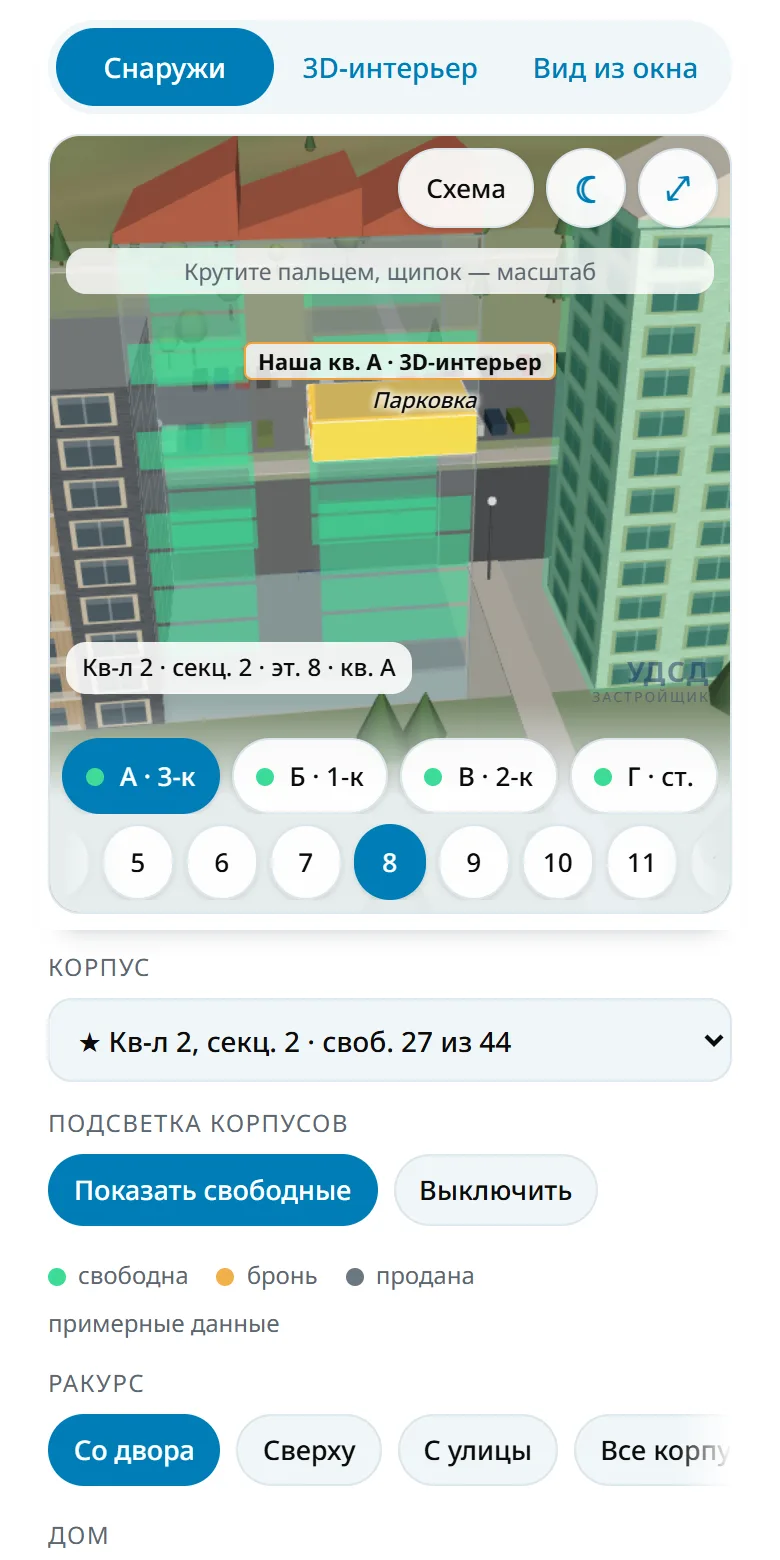
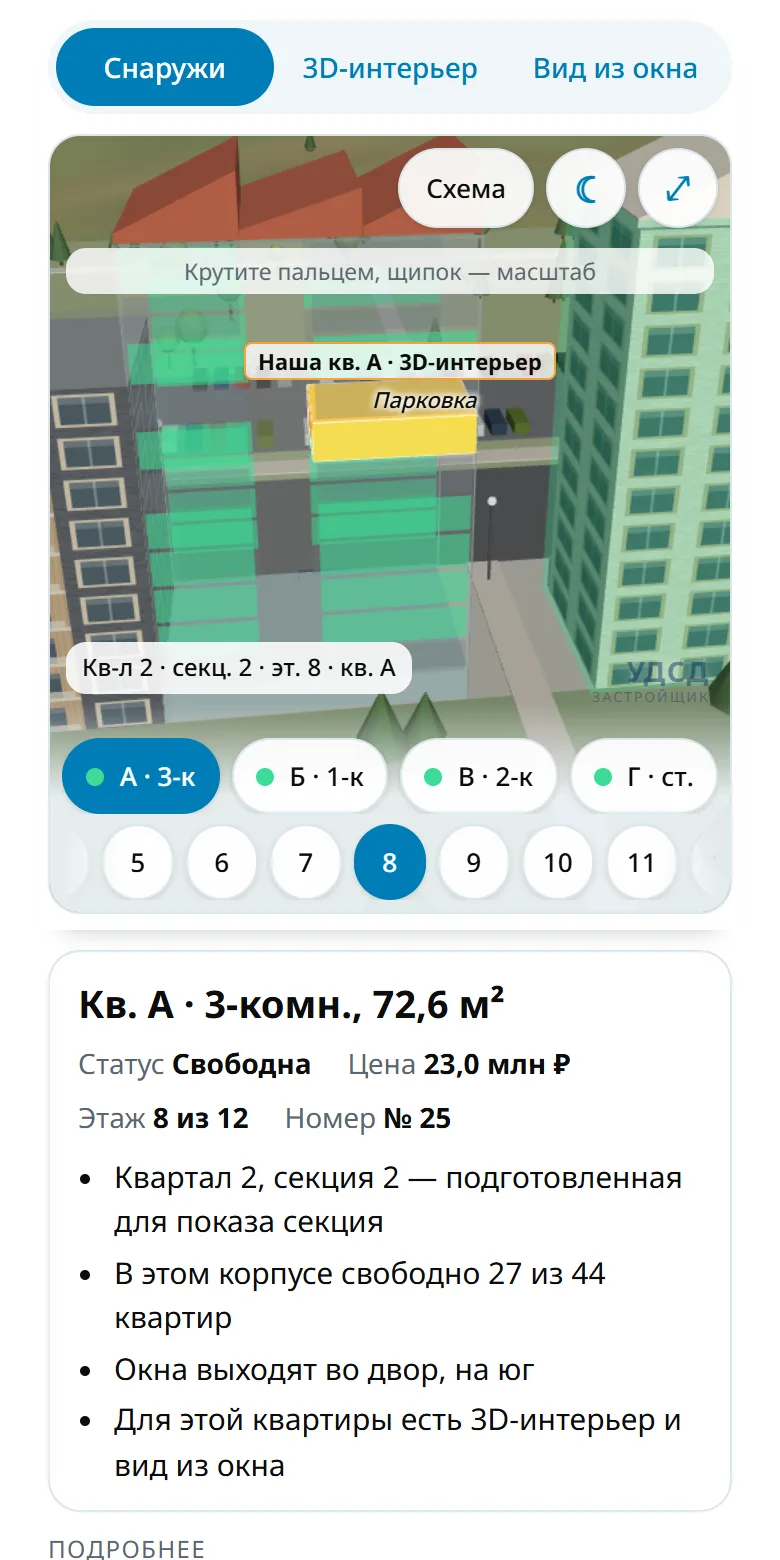
Телефон: карточка квартиры сразу под 3D, редкие настройки свёрнуты, короче шапка
Карточка со статусом и ценой — под сценой; «Подробнее» первым рядом; подсветка, дом и квартира внутри — в «Ещё настройки» (на телефоне свёрнуто); шапка на телефоне в одну строку; кнопки без задержки и двойного увеличения в Safari.

Changed region(s): [[0.0615, 0.6154, 0.9538, 1.0]]

diff --git a/demo/index.html b/demo/index.html
@@ -165,9 +165,13 @@ svg text{font-family:var(--f-body)}
 @media (max-width:640px){
   .lg{display:none}.sm{display:inline}.icobtn.sm{display:inline-flex}
   #rTime{display:none}
-  .demo-bar{font-size:11.5px;padding:6px 10px;margin-bottom:4px}
-  .eyebrow{font-size:11px}
-  h1{font-size:21px}
+  .demo-bar{font-size:11px;padding:5px 10px;margin-bottom:0;border-radius:10px}
+  /* the header shrinks to one line: the badge on the 3D and the card below carry the details */
+  .eyebrow{display:none}
+  h1{font-size:17px;white-space:nowrap;overflow:hidden;text-overflow:ellipsis}
+  .card{padding:12px 14px;gap:8px}
+  #pinMark{margin-top:-10px}   /* the marker must not add a flex gap of its own */
+  .card h2{font-size:19px}
   .wrap{gap:10px}
   .badge{top:auto;bottom:calc(var(--dockh) + 4px);left:8px;max-width:calc(100% - 96px);font-size:12px;padding:4px 8px;white-space:nowrap;overflow:hidden;text-overflow:ellipsis}
   .hint{bottom:auto;top:56px;left:8px;right:8px;max-width:none;text-align:center;font-size:11.5px}
@@ -200,6 +204,16 @@ svg text{font-family:var(--f-body)}
   .tbar .planbtn{padding:6px 10px}
   .icobtn{width:38px;height:38px}
 }
+/* folded block of rare settings */
+.more{display:flex;flex-direction:column;gap:12px}
+.more summary{list-style:none;cursor:pointer;display:inline-flex;align-items:center;gap:8px;font:500 14px var(--f-body);color:var(--acc);min-height:40px}
+.more summary::-webkit-details-marker{display:none}
+.more summary::after{content:"";width:8px;height:8px;border-right:2px solid currentColor;border-bottom:2px solid currentColor;transform:rotate(45deg) translateY(-3px);transition:transform .15s}
+.more[open] summary::after{transform:rotate(-135deg) translate(-2px,-1px)}
+.more[open]{gap:12px}
+.more > .row{margin-top:0}
+/* taps: no double-tap zoom or delay on controls, no grey flash in Safari */
+button,select,summary,a,.chip,.rl{touch-action:manipulation;-webkit-tap-highlight-color:transparent}
 /* rows of chips wider than the screen fade out at the side they continue to */
 .chips.more-r{-webkit-mask-image:linear-gradient(to right,#000 calc(100% - 28px),transparent);mask-image:linear-gradient(to right,#000 calc(100% - 28px),transparent)}
 .chips.more-l{-webkit-mask-image:linear-gradient(to left,#000 calc(100% - 28px),transparent);mask-image:linear-gradient(to left,#000 calc(100% - 28px),transparent)}
@@ -210,7 +224,7 @@ svg text{font-family:var(--f-body)}
 
 
 <div class="wrap">
-<div class="demo-bar">Демо-концепт <a href="https://3dryad.ru" target="_blank" rel="noopener">3dryad.ru</a><span class="lg"> для УДСД</span> · не официальный сайт застройщика · <a href="../"><span class="lg">Коммерческое предложение</span><span class="sm">КП</span></a></div>
+<div class="demo-bar">Демо-концепт <a href="https://3dryad.ru" target="_blank" rel="noopener">3dryad.ru</a><span class="lg"> для УДСД</span> · не официальный сайт<span class="lg"> застройщика</span> · <a href="../"><span class="lg">Коммерческое предложение</span><span class="sm">КП</span></a></div>
   <header>
     <div class="eyebrow">ЖК «Новелла» · квартал 2, секция 2</div>
     <h1 id="h1">Трёхкомнатная квартира, 72,6 м²</h1>
@@ -254,24 +268,30 @@ svg text{font-family:var(--f-body)}
   <div class="fullnote">Демо-концепт 3dryad.ru · не официальный сайт застройщика</div>
   </div>
 
+  <!-- what matters most comes right under the 3D: the apartment card (status, price, floor), then the controls -->
+  <div class="card" id="card" aria-live="polite"></div>
+
   <div class="panel" id="pInt">
     <div class="row"><div class="lab">Камера</div><div class="chips" id="rCam"></div></div>
     <div class="row" id="rowSee"><div class="lab">Перегородки</div><div class="chips" id="rSee"></div></div>
     <div class="row" id="rowStyle"><div class="lab">Стиль дизайн-проекта</div><div class="chips" id="rStyle"></div></div>
   </div>
   <div class="panel" id="pExt" hidden>
+    <div class="row"><div class="lab">Подробнее</div><div class="chips" id="rAct"></div></div>
     <div class="row"><div class="lab">Корпус</div><select id="selSec" class="sel" aria-label="Корпус"></select></div>
-    <div class="row"><div class="lab">Подсветка корпусов</div><div class="chips" id="rLayer"></div></div>
     <div class="legend"><span><i class="st" style="background:#3ddc97"></i>свободна</span><span><i class="st" style="background:#f2b04a"></i>бронь</span><span><i class="st" style="background:#6b7780"></i>продана</span><span id="dataLab">примерные данные</span></div>
     <div class="row"><div class="lab">Ракурс</div><div class="chips" id="rExtView"></div></div>
-    <div class="row"><div class="lab">Дом</div><div class="chips" id="rHouse"></div></div>
-    <div class="row" id="rowInner"><div class="lab">Квартира</div><div class="chips" id="rInner"></div></div>
-    <div class="row"><div class="lab">Подробнее</div><div class="chips" id="rAct"></div></div>
+    <!-- rarely needed: folded on phones (opened on wide screens at start) -->
+    <details class="more" id="moreExt" open>
+      <summary>Ещё настройки</summary>
+      <div class="row"><div class="lab">Подсветка корпусов</div><div class="chips" id="rLayer"></div></div>
+      <div class="row"><div class="lab">Дом</div><div class="chips" id="rHouse"></div></div>
+      <div class="row" id="rowInner"><div class="lab">Квартира</div><div class="chips" id="rInner"></div></div>
+    </details>
   </div>
 
   <div class="row" id="rowRecent" hidden><div class="lab">Недавно смотрели</div><div class="chips" id="rRecent"></div></div>
 
-  <div class="card" id="card" aria-live="polite"></div>
   <p class="note" id="note"></p>
 </div>
 
@@ -1599,7 +1619,7 @@ svg text{font-family:var(--f-body)}
     $('tInt').setAttribute('aria-pressed', S.mode === 'int' ? 'true' : 'false'); $('tWin').setAttribute('aria-pressed', S.mode === 'win' ? 'true' : 'false'); $('tExt').setAttribute('aria-pressed', S.mode === 'ext' ? 'true' : 'false');
     refreshMaterials(); applyVisibility(); stageColor(true);
     $('badge').hidden = S.mode === 'int'; if (S.mode === 'win') $('badge').textContent = 'Этаж ' + S.floor + ' · ' + WIN.find((w) => w.id === S.win).n; if (S.mode === 'ext') $('badge').textContent = 'Кв-л ' + SECTIONS[S.sec].q + ' · секц. ' + SECTIONS[S.sec].n + ' · эт. ' + S.floor + ' · кв. ' + TYPES[S.apt].n;
-    $('h1').textContent = S.mode === 'ext' ? 'Квартира ' + TYPES[S.apt].n + ', ' + fmt(TYPES[S.apt].area) + ' м²' : 'Трёхкомнатная квартира, 72,6 м²';
+    $('h1').textContent = S.mode === 'ext' ? 'Квартира ' + TYPES[S.apt].n + ', ' + fmt(TYPES[S.apt].area) + ' м²' : (narrow() ? '3-комн. квартира, 72,6 м²' : 'Трёхкомнатная квартира, 72,6 м²');
     if (S.mode === 'ext') fillExtPanel();
     trackRecent(); sync.forEach((f) => f()); renderCard(); renderNote(); hintText();
     dockEl.querySelectorAll('.chip[aria-pressed="true"]').forEach((b) => {   // keep the chosen chip of each dock row in sight (floor 8 sits past the edge on a phone)
@@ -1845,6 +1865,8 @@ svg text{font-family:var(--f-body)}
   resize(); refresh();
   // the buyer's path starts outside: the demo opens on «Снаружи» at our apartment (the interior above is set up for when they go in)
   S.sec = towerSec.i; S.apt = 'a'; S.inner = false; S.extView = 'yard'; enterExt(true); refresh(true);
+  if (narrow()) $('moreExt').open = false;   // phones: rare settings folded, so the card and the main rows stay close to the 3D
+  $('moreExt').addEventListener('toggle', () => document.querySelectorAll('.chips').forEach(fades));
   requestAnimationFrame(frame);
   window.__nv = { S: S, walk: walk, startWalk: startWalk, enterWindow: enterWindow, enterInterior: enterInterior, refresh: refresh, camera: camera, describe: describe, data: DATA_OK ? 'json' : 'generated' };
 });

diff --git a/CLAUDE.md b/CLAUDE.md
@@ -48,3 +48,4 @@
 - Телефон (≤640px, `narrow()` в JS — тот же порог): плашка и заголовок компактные (`.lg`/`.sm` — длинный и короткий варианты текста), сверху сцены один ряд `.tbar` (Схема, переключатель день/вечер `#timeBtn` вместо чипов `#rTime`, `#fullBtn`), подпись местоположения — одной строкой над доком, подсказка короткая и прячется через 4 с, кнопки квартир «А · 3-к 72,6». Полноэкранный режим — `body.full` (блок `.pin` на весь экран, строка-дисклеймер `.fullnote` под сценой). Блок CSS для телефонов стоит в конце `<style>`, иначе базовые правила его перебивают. КП на телефоне: закреплённая снизу панель `.mbar` (Открыть демо, Позвонить).
 - Проверка «всё помещается» на 320/360/375/390/414 px: ряды чипов шире экрана затухают у края (`fades()` → классы `more-l/more-r`); у чипов есть короткая подпись для телефона (`chip(..., { short })`); камера плана вписывает этаж по углу обзора целевого режима (`updateFov()` в `camFor`), `maxDistance` в интерьере не меньше расстояния вида.
 - Телефон, прокрутка: после прокрутки ниже `#pinMark` на 48 px у `body` класс `pinned` (`checkPin()`, обратно — у самого верха): закреплённая 3D уменьшается до ~32svh и прячет док, подсказку, логотип, мини-карту, чтобы панели и карточка были видны (жалоба с iPhone, 27.10.2026). Высоты на телефоне — в `svh` (видимая часть экрана Safari с панелями), с запасным `vh`.
+- Порядок под сценой: карточка квартиры (`#card`) сразу под закреплённым блоком, затем панели; в «Снаружи» сначала «Подробнее», корпус, легенда, ракурс, а редкие (подсветка, дом, квартира внутри) — в `<details id="moreExt">` «Ещё настройки» (на телефоне свёрнут). На телефоне надзаголовок скрыт, заголовок одной строкой; у кнопок `touch-action:manipulation` (без задержки и двойного зума в Safari).
